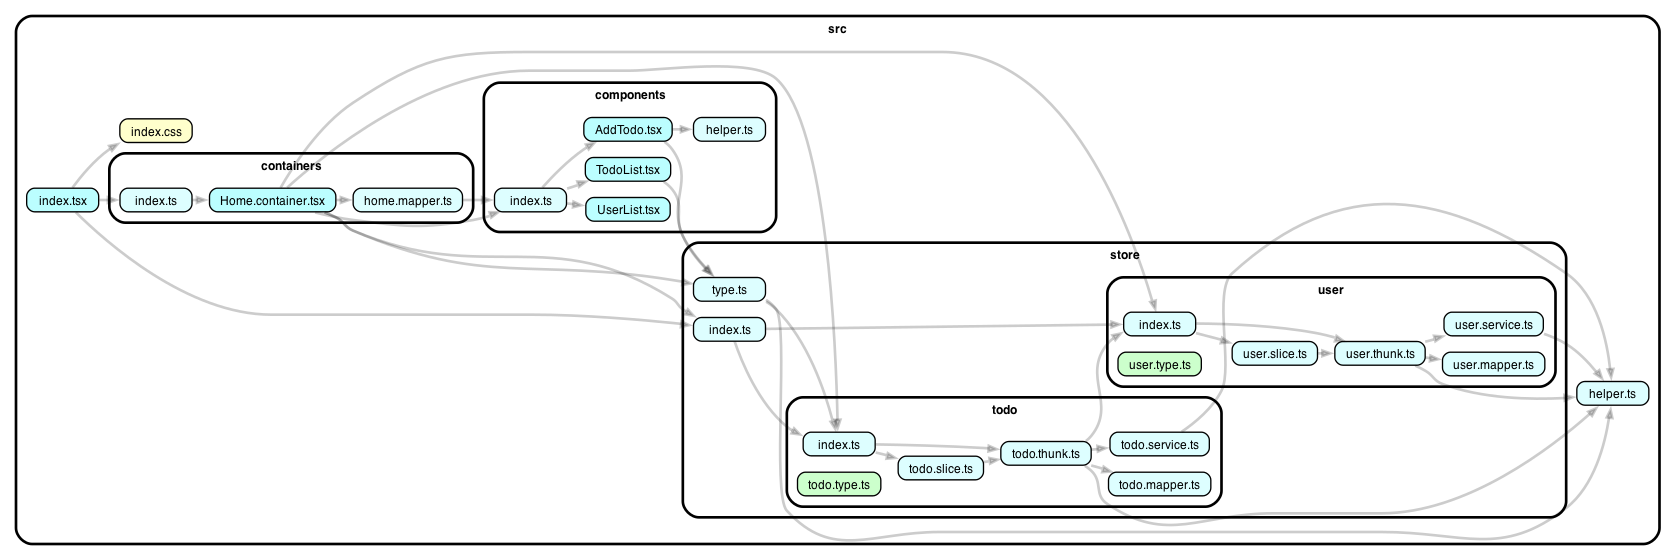
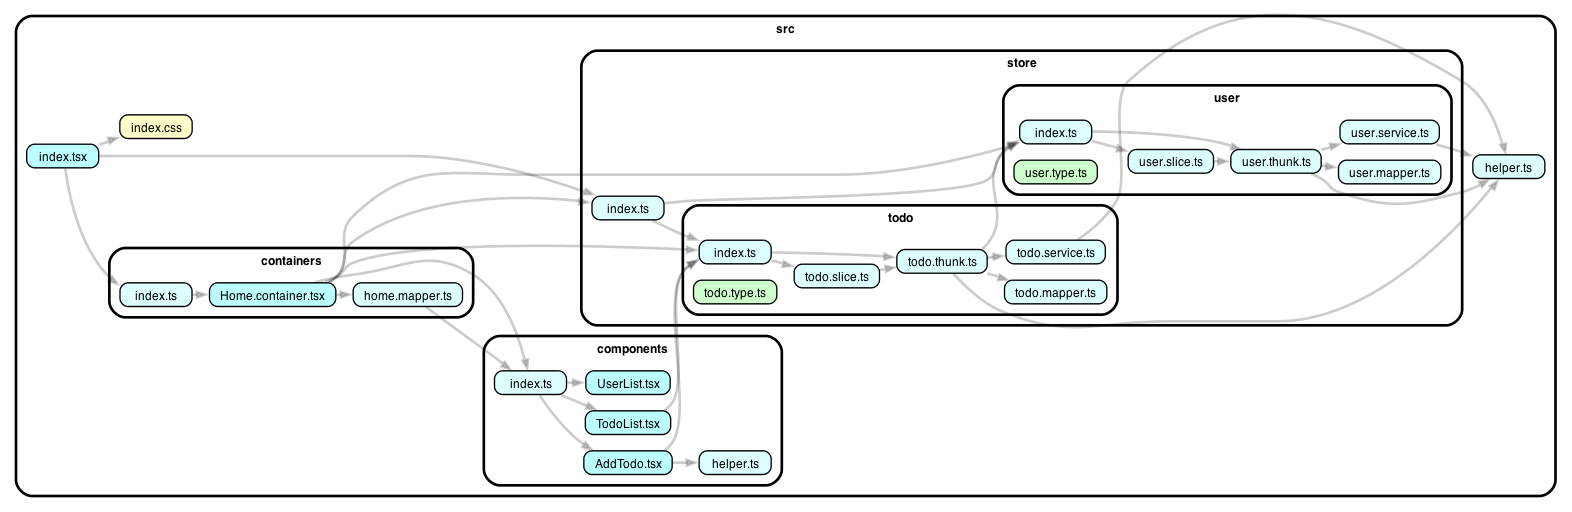
Chore - improvement

diff --git a/client/src/containers/Home.container.tsx b/client/src/containers/Home.container.tsx
@@ -1,10 +1,15 @@
 import React, { useEffect } from 'react'
 import { todoSelector, useAppDispatch, useAppSelector, userSelector } from '../store'
-import { addTodoThunk, deleteTodoThunk, fetchTodosThunk } from '../store/todo'
+import {
+  addTodoThunk,
+  AddTodoThunkPayloadType,
+  deleteTodoThunk,
+  DeleteTodoThunkPayloadType,
+  fetchTodosThunk,
+} from '../store/todo'
 import { fetchUsersThunk } from '../store/user'
 import { AddTodo, TodoList, UserList } from '../components'
 import { todoListPropsMapper } from './home.mapper'
-import { HandleDeleteTodoFunctionType, HandleSaveTodoParametersType } from '../store/type'
 
 export const HomeContainer: React.FC = () => {
   const todos = useAppSelector(todoSelector)
@@ -17,13 +22,7 @@ export const HomeContainer: React.FC = () => {
     dispatch(fetchUsersThunk())
   }, [])
 
-  const handleSaveTodo = ({
-    email,
-    user,
-    description,
-    label,
-    name,
-  }: HandleSaveTodoParametersType) => {
+  const handleSaveTodo = ({ email, user, description, label, name }: AddTodoThunkPayloadType) => {
     dispatch(
       addTodoThunk({
         email,
@@ -35,7 +34,7 @@ export const HomeContainer: React.FC = () => {
     )
   }
 
-  const handleDeleteTodo = ({ idTodo, idInfo }: HandleDeleteTodoFunctionType) => {
+  const handleDeleteTodo = ({ idTodo, idInfo }: DeleteTodoThunkPayloadType) => {
     dispatch(
       deleteTodoThunk({
         idTodo,

diff --git a/client/src/components/AddTodo.tsx b/client/src/components/AddTodo.tsx
@@ -1,11 +1,11 @@
 import React, { useState } from 'react'
 import { clearEmpties } from './helper'
-import { HandleSaveTodoParametersType } from '../store/type'
+import { AddTodoThunkPayloadType } from '../store/todo'
 
-type FormDataType = HandleSaveTodoParametersType
+type FormDataType = AddTodoThunkPayloadType
 
 type AddTodoProps = {
-  saveTodo: (data: HandleSaveTodoParametersType) => void
+  saveTodo: (data: AddTodoThunkPayloadType) => void
 }
 
 const validateForm = (form?: Partial<FormDataType>) => {

diff --git a/client/src/index.tsx b/client/src/index.tsx
@@ -1,4 +1,3 @@
-import React from 'react'
 import { createRoot } from 'react-dom/client'
 import { Provider } from 'react-redux'
 import './index.css'
@@ -8,9 +7,7 @@ import { store } from './store'
 const container = document.getElementById('root') as Element
 const root = createRoot(container)
 root.render(
-  <React.StrictMode>
-    <Provider store={store}>
-      <HomeContainer />
-    </Provider>
-  </React.StrictMode>,
+  <Provider store={store}>
+    <HomeContainer />
+  </Provider>,
 )

diff --git a/client/src/store/todo/todo.thunk.ts b/client/src/store/todo/todo.thunk.ts
@@ -56,7 +56,7 @@ export const fetchTodosThunk = createAsyncThunk<TodoType[], undefined, RejectTyp
  * AddTodo API
  */
 
-type AddTodoThunkPayloadType = {
+export type AddTodoThunkPayloadType = {
   name: string
   label: string
   description: string
@@ -119,7 +119,7 @@ export const addTodoThunk = createAsyncThunk<TodoType, AddTodoThunkPayloadType, 
  * DeleteTodo API
  */
 
-type DeleteTodoThunkPayloadType = {
+export type DeleteTodoThunkPayloadType = {
   idTodo: string
   idInfo: string
 }

diff --git a/client/src/components/TodoList.tsx b/client/src/components/TodoList.tsx
@@ -1,8 +1,8 @@
 import React from 'react'
-import { HandleDeleteTodoFunctionType } from '../store/type'
+import { DeleteTodoThunkPayloadType } from '../store/todo'
 
 type DeleteTodoFunctionType = {
-  deleteTodo: ({ idTodo, idInfo }: HandleDeleteTodoFunctionType) => void
+  deleteTodo: ({ idTodo, idInfo }: DeleteTodoThunkPayloadType) => void
 }
 
 type TodoItemProps = Omit<TodoType, 'userId'> & {
